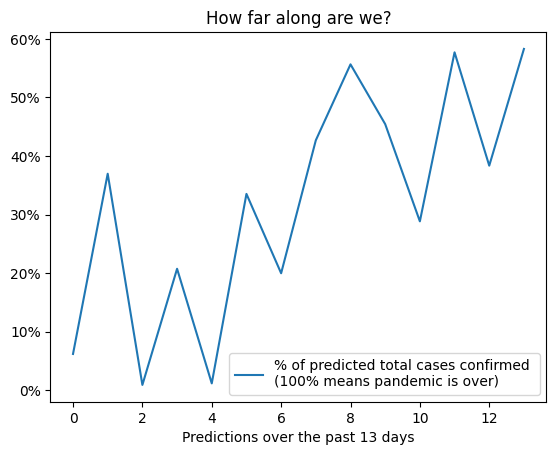
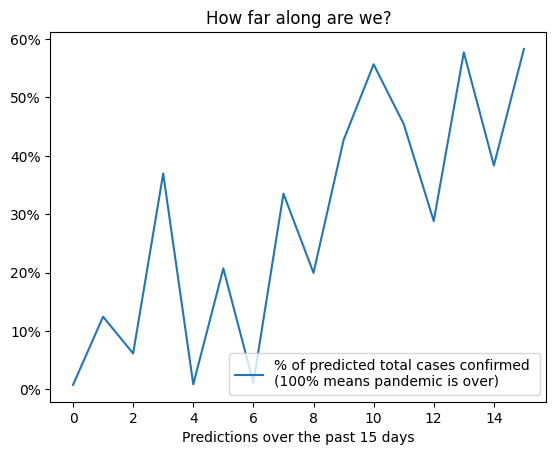
Extend lookback to 15 days

diff --git a/covidtracking.py b/covidtracking.py
@@ -5,7 +5,7 @@ from scipy.optimize import curve_fit
 
 ASSUMED_RATIO = 0.03
 DAYS_TO_PLOT = 150
-LOOKBACK = 13
+LOOKBACK = 15
 
 def model(x, a, b, c, d):
     return a * np.tanh(b * x + c) + d
